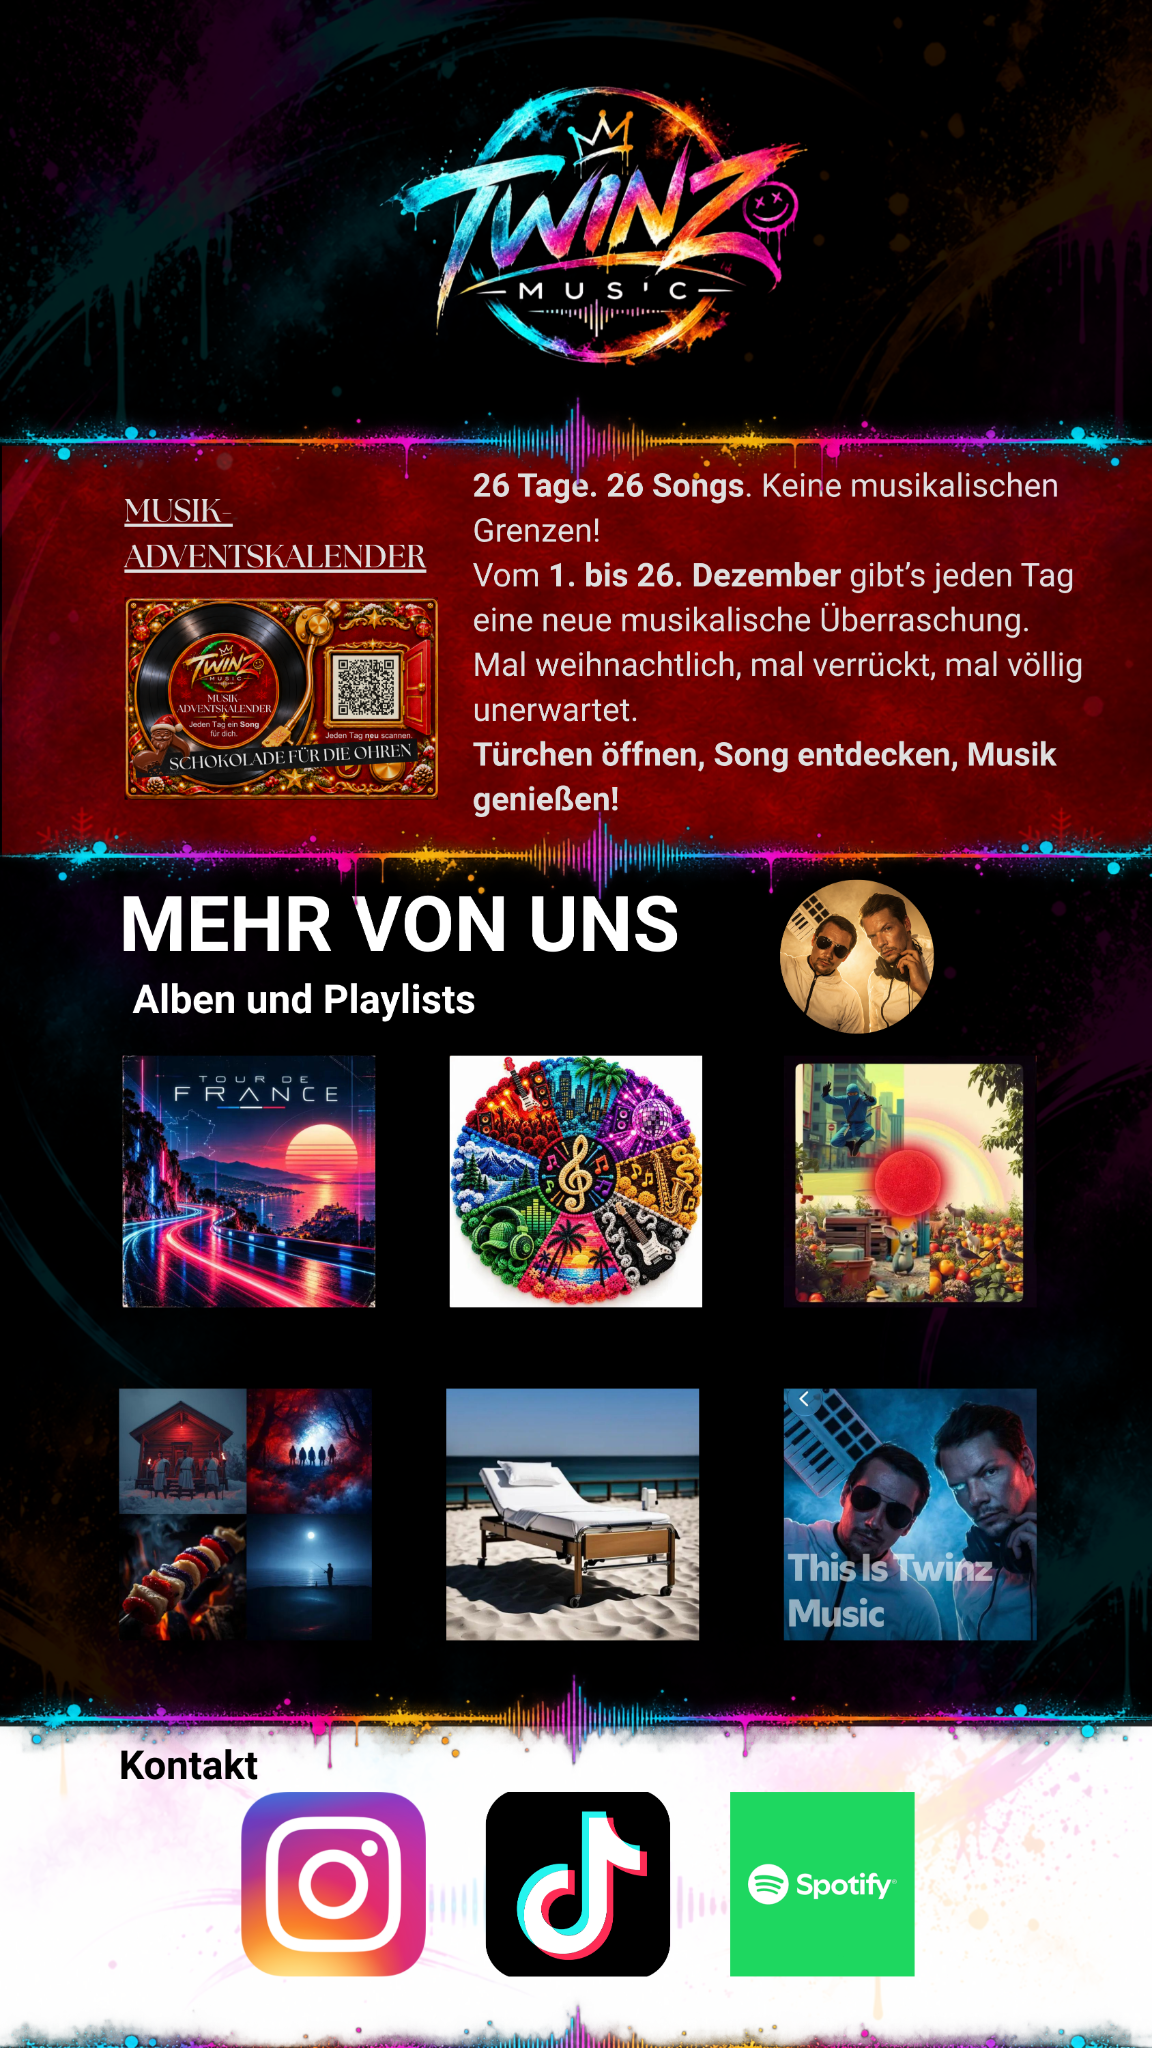
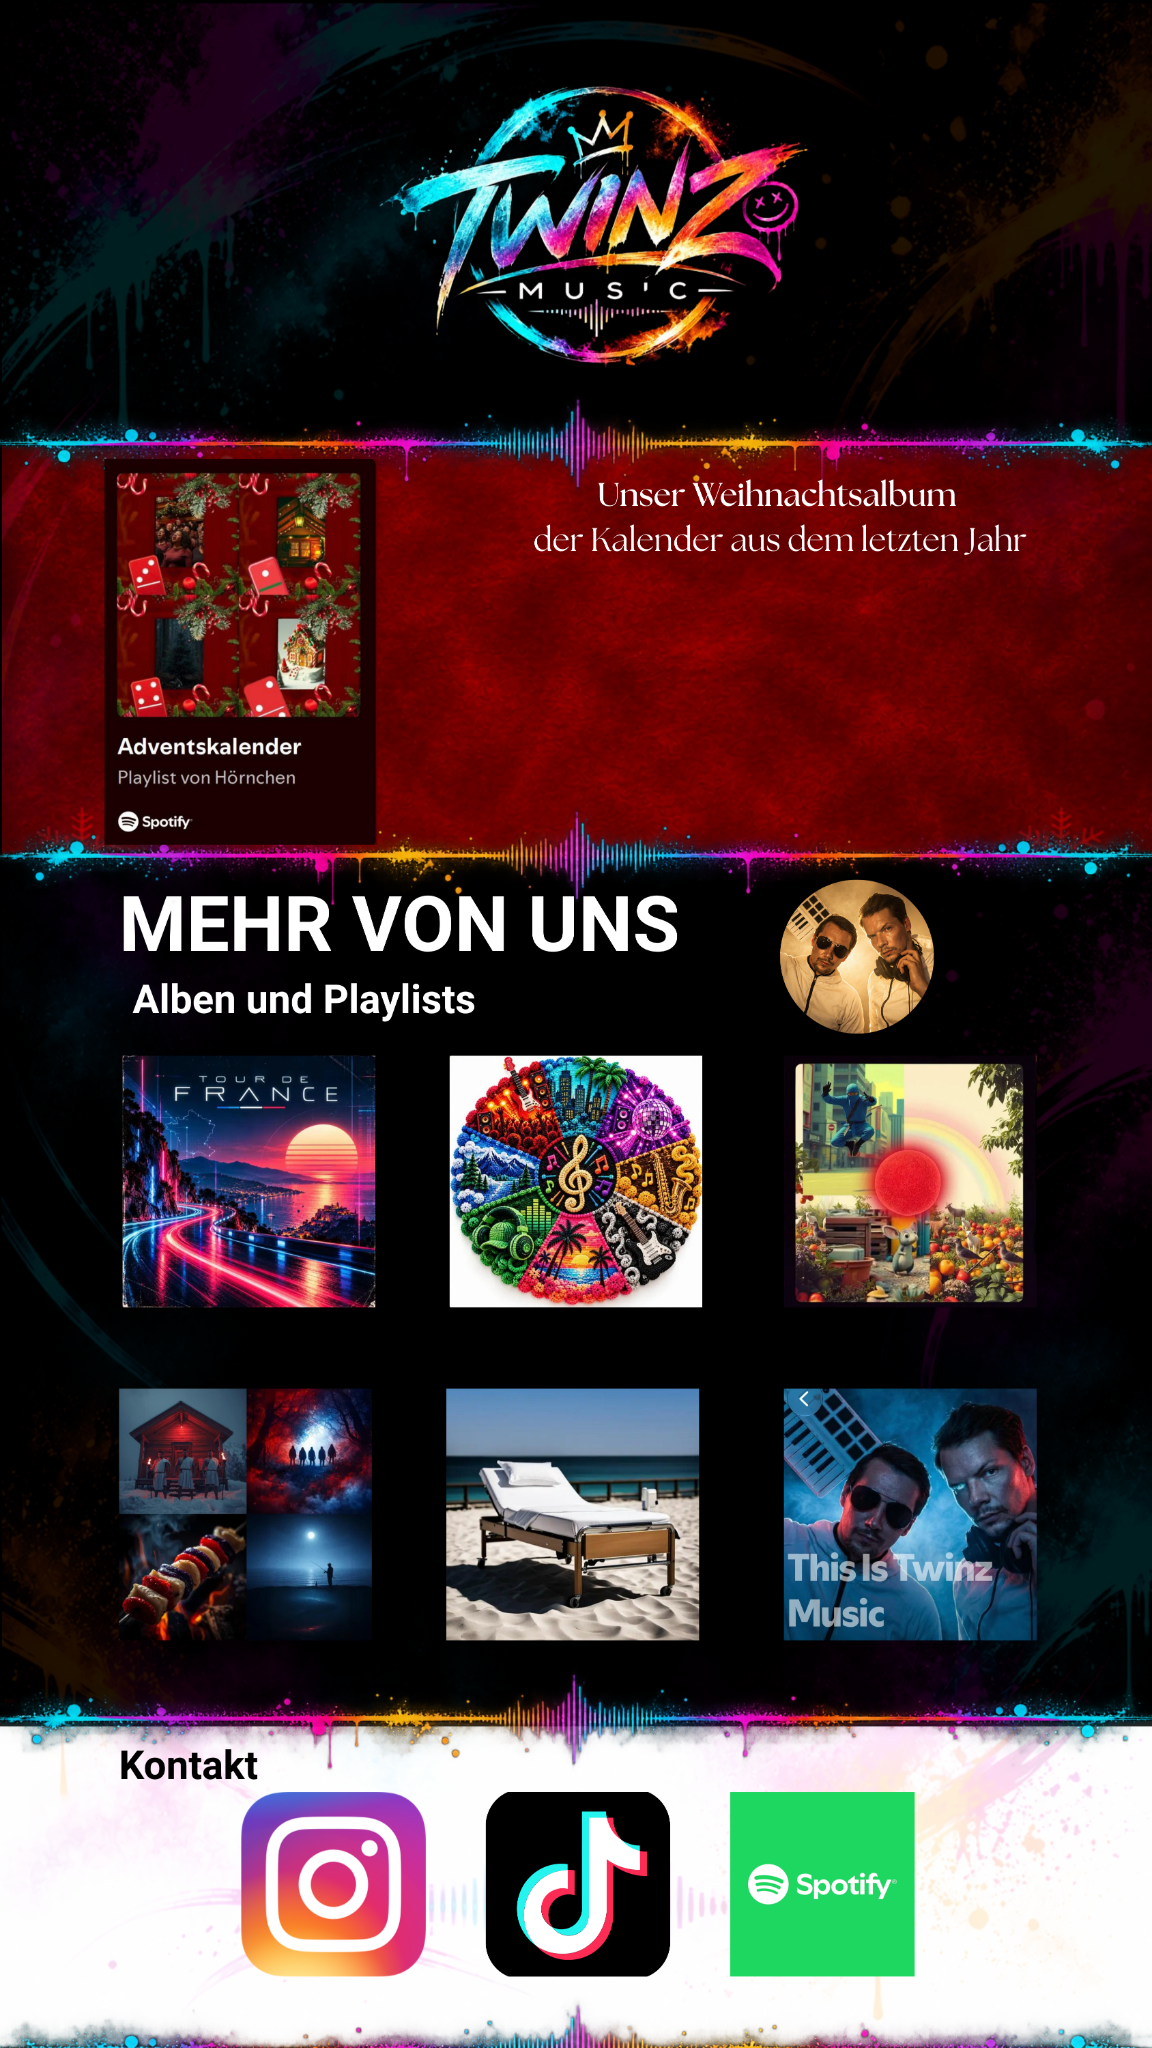
Add files via upload

Changed region(s): [[0.0, 0.1562, 1.0, 0.4375], [0.7812, 0.4062, 1.0, 0.4375], [0.3125, 0.0, 0.3438, 0.0312]]

diff --git a/index.html b/index.html
@@ -4,25 +4,17 @@
 <meta charset="utf-8">
 <meta name="viewport" content="width=device-width, initial-scale=1">
 <meta name="theme-color" content="#050505">
-<title>TWINZ MUSIC | Musik ohne Grenzen</title>
+<title>Twinz Music – Musik, Alben & Weihnachtsalbum</title>
 <style>
-*{box-sizing:border-box}html,body{margin:0;background:#050505;color:white;font-family:Arial,sans-serif}main{width:min(100%,700px);margin:auto;position:relative;line-height:0}img{display:block;width:100%;height:auto}a.zone{position:absolute;display:block;z-index:2;border-radius:5px;touch-action:manipulation}a.zone:focus-visible{outline:3px solid #00e5ff;outline-offset:2px;background:#ffffff22}a.zone:hover{background:#ffffff12} .sr-only{position:absolute;width:1px;height:1px;padding:0;margin:-1px;overflow:hidden;clip:rect(0,0,0,0);white-space:nowrap;border:0}
+*{box-sizing:border-box}html,body{margin:0;background:#050505;color:white;font-family:Arial,sans-serif}main{width:min(100%,700px);margin:auto;position:relative;line-height:0}img{display:block;width:100%;height:auto}a.music-button{position:absolute;z-index:4;display:block;width:36%;line-height:0;touch-action:manipulation;transition:transform .18s ease,filter .18s ease}a.music-button img{width:100%;height:auto}a.music-button:hover{transform:scale(1.035);filter:brightness(1.08)}a.music-button:focus-visible{outline:3px solid #ffe8a0;outline-offset:2px;border-radius:12px}a.zone{position:absolute;display:block;z-index:2;border-radius:5px;touch-action:manipulation}a.zone:focus-visible{outline:3px solid #00e5ff;outline-offset:2px;background:#ffffff22}a.zone:hover{background:#ffffff12} .sr-only{position:absolute;width:1px;height:1px;padding:0;margin:-1px;overflow:hidden;clip:rect(0,0,0,0);white-space:nowrap;border:0}
 </style>
-<link rel="icon" type="image/png" sizes="64x64" href="favicon.png?v=2">
-<link rel="apple-touch-icon" href="logo.png?v=2">
-<meta name="description" content="Entdecke Twinz Music: Alben, Playlists und unseren Musik-Adventskalender.">
-<meta property="og:type" content="website">
-<meta property="og:title" content="TWINZ MUSIC | Musik ohne Grenzen">
-<meta property="og:description" content="Entdecke Twinz Music: Alben, Playlists und unseren Musik-Adventskalender.">
-<meta property="og:url" content="https://astrorouven.github.io/twinzmusic/">
-<meta property="og:image" content="https://astrorouven.github.io/twinzmusic/logo.png?v=2">
-<meta name="twitter:card" content="summary">
 </head>
 <body>
 <main aria-label="Twinz Music Landingpage">
-<img src="design.png?v=1" alt="Twinz Music: Musik-Adventskalender, sechs Alben und Playlists sowie Instagram, TikTok und Spotify" width="1152" height="2048">
-<!-- Die Positionen beziehen sich auf das Canva-Bild, nicht auf die Bildschirmgröße. -->
-<a class="zone" style="left:0%;top:17.3%;width:100%;height:24.8%" href="https://astrorouven.github.io/twinz-music-adventskalender/" aria-label="Musik-Adventskalender öffnen"><span class="sr-only">Zum Musik-Adventskalender</span></a>
+<img src="design.png?v=1" alt="Twinz Music: Weihnachtsalbum, sechs Alben und Playlists sowie Instagram, TikTok und Spotify" width="1152" height="2048">
+<!-- Neue Weihnachtsalbum-Buttons, rechts neben dem Playlist-Cover. -->
+<a class="music-button" style="left:48%;top:28%;" href="https://open.spotify.com/playlist/5laQ8Xs4IQW3FDpiucxB6w" target="_blank" rel="noopener noreferrer" aria-label="Weihnachtsalbum auf Spotify anhören"><img src="spotify-button.png" alt="Spotify" width="2172" height="724"></a>
+<a class="music-button" style="left:48%;top:34.6%;" href="https://youtube.com/playlist?list=PLtdofY-20PmXSCVtFiC6nD3j6FECs1qx9&amp;si=1d_hkM_71Xzug8Lh" target="_blank" rel="noopener noreferrer" aria-label="Weihnachtsalbum auf YouTube anhören"><img src="youtube-button.png" alt="YouTube" width="2172" height="724"></a>
 <a class="zone" style="left:10.2%;top:51.4%;width:23%;height:12.4%" href="https://open.spotify.com/album/5dVj6qJH1sA4jh1QANQ4eZ" target="_blank" rel="noopener noreferrer" aria-label="Album 1 auf Spotify öffnen"></a>
 <a class="zone" style="left:38.7%;top:51.4%;width:23%;height:12.4%" href="https://open.spotify.com/album/23ZRinqZavYsZAHdt2dyVs" target="_blank" rel="noopener noreferrer" aria-label="Album 2 auf Spotify öffnen"></a>
 <a class="zone" style="left:67.3%;top:51.4%;width:23%;height:12.4%" href="https://open.spotify.com/album/0o1Hf6XxkstJ9av637ns3r" target="_blank" rel="noopener noreferrer" aria-label="Album 3 auf Spotify öffnen"></a>
